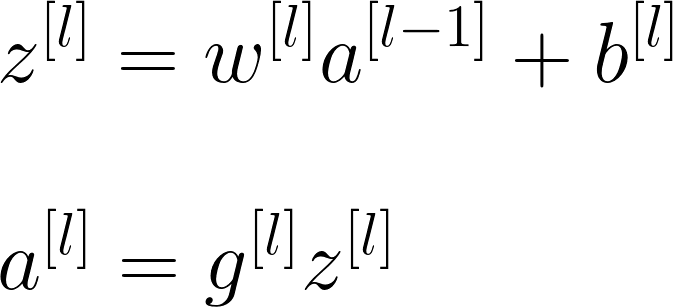
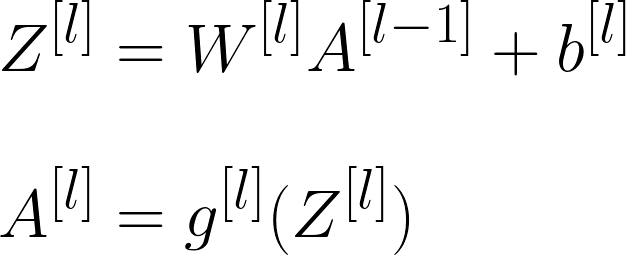
Summary of forward and backward prop :rocket: :bomb:

diff --git a/6-NNConcepts/2-NNConcepts.md b/6-NNConcepts/2-NNConcepts.md
@@ -30,7 +30,7 @@ It calculates a _weighted sum_ of its input, adds a bias and then decides whethe
 
 ## Generalized Formula of Forward Propagation 
 
-<img src="../res/ForwarProp.png" height="70"  />
+<img src="../res/ForwardProp.png" height="70"  />
 
 ## Parameters Dimension Control
 
@@ -42,17 +42,53 @@ It calculates a _weighted sum_ of its input, adds a bias and then decides whethe
 | db<sup>[<i>l</i>]</sup>  |  (n<sup>[<i>l</i>]</sup>,1) |
 
 
-> Making sure tat these dimension are true help us to write better and bug-free :bug: codes
+> Making sure that these dimensions are true help us to write better and bug-free :bug: codes
 
+
+
+
+## Summary of Forward Propagation Process
+
+|                  |                 |
+| ---------------- | --------------- |
+| **Input:**       |  a<sup>[<i>l</i>-1]</sup> |
+| **Output:**      |  a<sup>[<i>l</i>]</sup>, chache (z<sup>[<i>l</i>]</sup>) |
+
+**Vectorized Equations:**
+
+<img src="../res/ForwardProp.png" height="80"  />
+
+## Summary of Back Propagation Process
+
+|                  |                 |
+| ---------------- | --------------- |
+| **Input:**       |  da<sup>[<i>l</i>]</sup> |
+| **Output:**      | da<sup>[<i>l</i>-1]</sup>, dW<sup>[<i>l</i>]</sup>, db<sup>[<i>l</i>]</sup> |
+
+**Vectorized Equations:**
+
+<img src="../res/BackProp1.png" height="30"  />
+<br>
+<br>
+<img src="../res/BackProp2.png" height="50"  />
+<br>
+<br>
+<img src="../res/BackProp3.png" height="50"  />
+<br>
+<br>
+<img src="../res/BackProp4.png" height="30"  />
+
+## To Put Forward Prop. and Back Prop. Together
+
+<img src="../res/ForBackSummary.png" width="500"  />
+
+> 😵🤕
 
 ## Parameters vs Hyperparameters
 
 **Parameters:**
-* W<sup>[<i>1</i>]</sup> 
-* b<sup>[<i>1</i>]</sup>
-* W<sup>[<i>2</i>]</sup>
-* b<sup>[<i>2</i>]</sup>
-* W<sup>[<i>3</i>]</sup>
+* W<sup>[<i>1</i>]</sup>, W<sup>[<i>2</i>]</sup>, W<sup>[<i>3</i>]</sup>
+* b<sup>[<i>1</i>]</sup>, b<sup>[<i>2</i>]</sup>
 * ......
 
 
